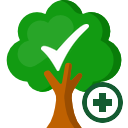
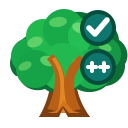
feat: establish original Better Todo Tree Marketplace branding
Present Better Todo Tree as an independently maintained fork with original
project artwork, explicit publisher attribution, and locked Marketplace
metadata while preserving its existing identity and compatibility surface.

Brand system:
- replace the 128x128 Marketplace icon with an original full-colour tree mark
  using equal-size checkmark and plus-plus status badges
- align the 24x24 Activity Bar and product-icon SVGs with the same badge
  geometry and regenerate the packaged U+EA01 WOFF glyph
- add the full-colour SVG master and document artwork provenance, source roles,
  geometric constraints, and unchanged third-party icon attribution
- replace the Marketplace screenshot with the 2561x1594 current presentation

Marketplace copy:
- identify FanaticPythoner as the independent publisher and state that the fork
  is not affiliated with, endorsed by, or published by Gruntfuggly
- replace successor and drop-in claims with migration, major-feature,
  active-fix, modern-compatibility, and benchmarked-speedup language
- preserve the documented 696.0X and 9.8X benchmark evidence, screenshot link,
  project links, and remaining Vaadin attribution

Regression coverage:
- lock the 185-character description, package identity, URLs, README claims,
  benchmark rows, screenshot linkage, attribution, and artwork provenance
- verify Marketplace icon and screenshot dimensions and equal-badge geometry
  across the vector logo, Activity Bar icon, and product-icon source
[…]

diff --git a/test/package.manifest.test.js b/test/package.manifest.test.js
@@ -13,6 +13,38 @@ function readPackageNls( fileName )
     return JSON.parse( fs.readFileSync( path.join( __dirname, '..', fileName ), 'utf8' ) );
 }
 
+function readRepositoryFile( fileName )
+{
+    return fs.readFileSync( path.join( __dirname, '..', fileName ) );
+}
+
+function occurrenceCount( text, value )
+{
+    return text.split( value ).length - 1;
+}
+
+function circleRadii( svg, centerX, centersY )
+{
+    var radii = [];
+
+    centersY.forEach( function( centerY )
+    {
+        var marker = '<circle cx="' + centerX + '" cy="' + centerY + '" r="';
+        var markerStart = svg.indexOf( marker );
+
+        while( markerStart !== -1 )
+        {
+            var radiusStart = markerStart + marker.length;
+            var radiusEnd = svg.indexOf( '"', radiusStart );
+
+            radii.push( Number( svg.slice( radiusStart, radiusEnd ) ) );
+            markerStart = svg.indexOf( marker, radiusEnd );
+        }
+    } );
+
+    return radii;
+}
+
 function getConfigurationProperty( propertyName )
 {
     return languageMatrix.findConfigurationProperty( propertyName );
@@ -29,6 +61,42 @@ QUnit.test( 'stable hidden view ids are preserved while the public namespace is 
     assert.equal( activityView.id, 'todo-tree-container' );
     assert.equal( treeView.id, 'todo-tree-view' );
     assert.equal( treeView.when, '!better-todo-tree-is-empty' );
+} );
+
+QUnit.test( 'Marketplace presentation states independent fork identity consistently', function( assert )
+{
+    var expectedDescription = 'An independent, actively maintained fork of Todo Tree for VS Code: the familiar workflow, major new features, active fixes, benchmarked speedups of up to 696×, and modern compatibility.';
+    var expectedScreenshot = '![screenshot](https://raw.githubusercontent.com/FanaticPythoner/better-todo-tree/master/resources/screenshot.png)';
+    var packageJson = readPackageJson();
+    var packageLock = JSON.parse( readRepositoryFile( 'package-lock.json' ).toString( 'utf8' ) );
+    var readme = readRepositoryFile( 'README.md' ).toString( 'utf8' );
+    var provenance = readRepositoryFile( 'ARTWORK-PROVENANCE.md' ).toString( 'utf8' );
+
+    assert.equal( packageJson.description, expectedDescription );
+    assert.equal( packageJson.description.length, 185 );
+    assert.equal( packageJson.name, 'better-todo-tree' );
+    assert.equal( packageJson.displayName, 'Better Todo Tree' );
+    assert.equal( packageJson.publisher, 'FanaticPythoner' );
+    assert.equal( packageJson.repository, 'https://github.com/FanaticPythoner/better-todo-tree' );
+    assert.equal( packageJson.bugs.url, 'https://github.com/FanaticPythoner/better-todo-tree/issues' );
+    assert.equal( packageJson.homepage, 'https://bettertodotree.com' );
+    assert.equal( packageLock.version, packageJson.version );
+    assert.equal( packageLock.packages[ '' ].version, packageJson.version );
+    assert.ok( readme.indexOf( '**' + expectedDescription + '**' ) !== -1 );
+    assert.ok( readme.indexOf( 'not affiliated with, endorsed by, or published by Gruntfuggly' ) !== -1 );
+    assert.ok( readme.indexOf( '**Migration Ready 🤝:** Familiar workflow.' ) !== -1 );
+    assert.ok( readme.indexOf( '**Major Features & Bulletproof Fixes 🛠️:** Complete notebook scanning, embedded Vue/Svelte/Astro support' ) !== -1 );
+    assert.ok( readme.indexOf( '**Alive & Active 💖:** Keeping this project alive' ) !== -1 );
+    assert.equal( readme.indexOf( 'I took over to modernize the core' ), -1 );
+    assert.equal( readme.indexOf( 'drop-in replacement fork of Todo Tree' ), -1 );
+    assert.equal( occurrenceCount( readme, expectedScreenshot ), 1 );
+    assert.ok( readme.indexOf( '| **Custom Highlight Configs** | 1,391.93 ms | 2.00 ms | **696.0X** 🚀 |' ) !== -1 );
+    assert.ok( readme.indexOf( '| **Custom Regex Workspace Refreshes** | 36.72 ms | 3.76 ms | **9.8X** 🚀 |' ) !== -1 );
+    assert.ok( readme.indexOf( '[ARTWORK-PROVENANCE.md](ARTWORK-PROVENANCE.md)' ) !== -1 );
+    assert.equal( readme.indexOf( 'Main icons originally made by [Freepik]' ), -1 );
+    assert.ok( readme.indexOf( 'Tree view icons made by [Vaadin]' ) !== -1 );
+    assert.ok( provenance.indexOf( 'original project artwork' ) !== -1 );
+    assert.ok( provenance.indexOf( '`resources/better-todo-tree-logo.svg` | Full-color vector master' ) !== -1 );
 } );
 
 QUnit.test( 'issue #106 sidebar tree view activates on direct view demand', function( assert )
@@ -55,6 +123,27 @@ QUnit.test( 'scan progress contributes the Better Todo Tree product icon font', 
     assert.equal( fs.statSync( fontPath ).size > 0, true );
     assert.equal( english[ 'better-todo-tree.productIcon.description' ], 'Better Todo Tree status icon' );
     assert.equal( typeof chinese[ 'better-todo-tree.productIcon.description' ], 'string' );
+} );
+
+QUnit.test( 'brand icons use two equal circular status badges', function( assert )
+{
+    var marketplaceIcon = readRepositoryFile( 'resources/better-todo-tree.png' );
+    var marketplaceScreenshot = readRepositoryFile( 'resources/screenshot.png' );
+    var logoSource = readRepositoryFile( 'resources/better-todo-tree-logo.svg' ).toString( 'utf8' );
+    var containerIcon = readRepositoryFile( 'resources/better-todo-tree-container.svg' ).toString( 'utf8' );
+    var productIcon = readRepositoryFile( 'resources/product-icons/better-todo-tree.svg' ).toString( 'utf8' );
+
+    assert.equal( marketplaceIcon.readUInt32BE( 16 ), 128 );
+    assert.equal( marketplaceIcon.readUInt32BE( 20 ), 128 );
+    assert.equal( marketplaceScreenshot.readUInt32BE( 16 ), 2561 );
+    assert.equal( marketplaceScreenshot.readUInt32BE( 20 ), 1594 );
+    assert.deepEqual( circleRadii( logoSource, '98', [ '28', '67' ] ), [ 18, 14, 18, 14 ] );
+    assert.deepEqual( circleRadii( containerIcon, '19', [ '5.1', '14.35' ] ), [ 4, 4 ] );
+    assert.deepEqual( circleRadii( productIcon, '19', [ '5.1', '14.35' ] ), [ 4, 4 ] );
+    assert.ok( containerIcon.indexOf( 'm16.8 5.1 1.45 1.45 2.95-3.35' ) !== -1 );
+    assert.ok( containerIcon.indexOf( 'M16.2 14.35h2.2' ) !== -1 );
+    assert.ok( productIcon.indexOf( 'm16.8 5.1 1.45 1.45 2.95-3.35' ) !== -1 );
+    assert.ok( productIcon.indexOf( 'M16.2 14.35h2.2' ) !== -1 );
 } );
 
 QUnit.test( 'public commands use the better-todo-tree namespace', function( assert )

diff --git a/ARTWORK-PROVENANCE.md b/ARTWORK-PROVENANCE.md
@@ -1,0 +1,34 @@
+# Better Todo Tree artwork provenance
+
+## Primary artwork
+
+Better Todo Tree's logo and primary icon system are original project artwork. The system was
+constructed as flat vector geometry for Better Todo Tree and contains no traced paths, embedded
+raster sources, gradients, shadows, filters, or font-rendered text.
+
+| Element | Geometry |
+| --- | --- |
+| Tree | Broad canopy, circular foliage, split trunk, and roots |
+| Upper badge | Circular ring containing a checkmark |
+| Lower badge | Equal-size circular ring containing two plus signs |
+| Marketplace icon | 128 x 128 RGBA PNG rendered from the vector master |
+| Activity Bar icon | 24 x 24 monochrome SVG |
+| Product icon | U+EA01 TrueType outline stored in WOFF |
+
+In the 128 x 128 master, both badge circles have outer radius 18 and inner radius 14. The 24 x 24
+companions preserve the equal-badge composition with outer radius 4.
+
+## Source files
+
+| File | Role |
+| --- | --- |
+| `resources/better-todo-tree.png` | Marketplace raster icon |
+| `resources/better-todo-tree-logo.svg` | Full-color vector master |
+| `resources/better-todo-tree-container.svg` | Activity Bar vector icon |
+| `resources/product-icons/better-todo-tree.svg` | Product-icon vector source |
+| `resources/product-icons/better-todo-tree.woff` | Packaged product-icon font |
+
+## Unchanged third-party artwork
+
+Toolbar, tree-view, tag, and reveal icons retain their existing attribution in `README.md` and
+`resources/icons/license.txt`.

diff --git a/README.md b/README.md
@@ -1,8 +1,10 @@
 # Better Todo Tree
 
-**The actively maintained, extremely fast, drop-in replacement fork of Todo Tree.**
+**An independent, actively maintained fork of Todo Tree for VS Code: the familiar workflow, major new features, active fixes, benchmarked speedups of up to 696×, and modern compatibility.**
 
-Todo Tree is THE visual map I rely on to track every scattered issue across projects. When upstream stopped being maintained, new and existing bugs 🐛 took root and started choking the extension. Before it became firewood 🪵, I took over to modernize the core, clear the rot, and make it lightning fast ⚡.
+> **Independent fork:** Better Todo Tree is independently maintained and published by **FanaticPythoner**. It is based on the open-source [Todo Tree](https://marketplace.visualstudio.com/items?itemName=Gruntfuggly.todo-tree) project and is **not affiliated with, endorsed by, or published by Gruntfuggly**.
+
+Todo Tree was THE visual map I relied on to track every scattered issue across projects. When the upstream project stopped receiving updates, new and existing bugs took root and started choking the extension. Before it became firewood 🪵, I created Better Todo Tree as an independent fork to modernize the core, clear the rot, and make it lightning fast ⚡.
 
 <!-- README_BENCHMARK_SUMMARY:START -->
 **Made TODO rescans 51.4X faster (so you don't have time to feel guilty for not fixing them... 🥀)**
@@ -23,8 +25,8 @@ Todo Tree is THE visual map I rely on to track every scattered issue across proj
 
 **Why this fork exists**
 
-  * **Drop-in Ready 🤝:** Zero friction. Same workflow. Same exact settings.
-  * **Bulletproof Fixes 🛡️:** Notebook behavior, scan parity, strict regex handling, and modern VS Code compatibility actually move forward.
+  * **Migration Ready 🤝:** Familiar workflow. Existing Todo Tree settings remain supported and are imported into Better Todo Tree's own settings namespace.
+  * **Major Features & Bulletproof Fixes 🛠️:** Complete notebook scanning, embedded Vue/Svelte/Astro support, scan parity, strict regex handling, major performance improvements, and modern VS Code compatibility.
   * **Alive & Active 💖:** Keeping this project alive takes a lot of time and, predictably, more coffee than I'd like to admit (caffeine or rent? Who knows what it will be next week 💀 #tariffs). If you're in the same boat:  
   `// TODO: buy the Better Todo Tree guy a coffee` ☕ → [buymeacoffee.com/FanaticPythoner](https://buymeacoffee.com/FanaticPythoner)
 
@@ -651,7 +653,7 @@ Better Todo Tree keeps reading legacy `todo-tree.*` settings and imports them in
 
 Uses a modified version of [ripgrep-js](https://www.npmjs.com/package/ripgrep-js).
 
-Main icons originally made by [Freepik](http://www.freepik.com) from [www.flaticon.com](https://www.flaticon.com/) is licensed by [CC 3.0 BY](http://creativecommons.org/licenses/by/3.0/)
+Better Todo Tree's logo and primary iconography are original project artwork. See [ARTWORK-PROVENANCE.md](ARTWORK-PROVENANCE.md).
 
 Tree view icons made by [Vaadin](https://www.flaticon.com/authors/vaadin) from [www.flaticon.com](https://www.flaticon.com/) is licensed by [CC 3.0 BY](http://creativecommons.org/licenses/by/3.0/)
 